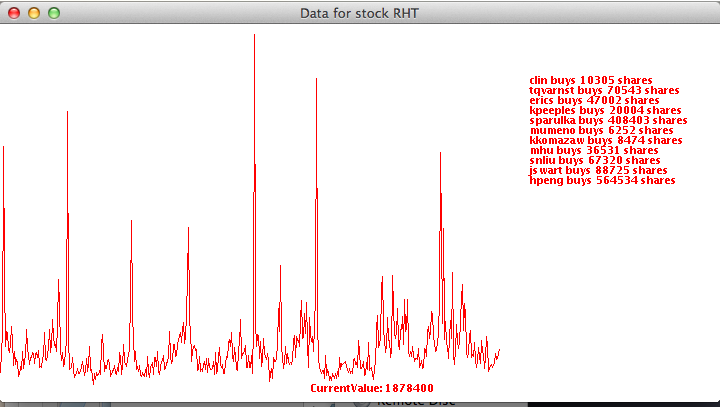
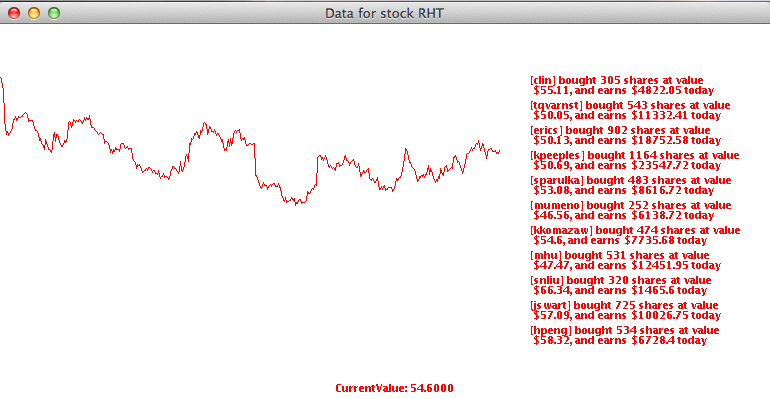
Add calculation of historical and today's share value

diff --git a/projects/stock-ticker/stock-ticker-ploter/src/main/java/demo/StockPloter.java b/projects/stock-ticker/stock-ticker-ploter/src/main/java/demo/StockPloter.java
@@ -5,6 +5,7 @@ import java.awt.Font;
 import java.awt.Graphics;
 import java.awt.Graphics2D;
 import java.io.IOException;
+import java.text.DecimalFormat;
 import java.util.ArrayDeque;
 import java.util.ArrayList;
 import java.util.List;
@@ -27,9 +28,9 @@ public class StockPloter extends JPanel {
 	public static final int WIDTH = 520;
 	public static final int HEIGHT = 400;
 	private static final int NUM_ELEMENTS = 500;
-	public static final int EXTRA_WIDTH_FOR_ORDERS = 200;
+	public static final int EXTRA_WIDTH_FOR_ORDERS = 250;
 	
-	private int maxStockValue = 500;
+	private double maxStockValue = 70;
 	public  int pixelsPerPoint = Math.round(WIDTH-20/NUM_ELEMENTS);
 	private String orderlist = "";
 
@@ -73,12 +74,12 @@ public class StockPloter extends JPanel {
 		} ); **/
 		
 		for(StockHistoryQuote quote : (list.size()<NUM_ELEMENTS) ? list : (list.subList(list.size()-NUM_ELEMENTS, list.size()))) {
-			if(quote.getVolume()>maxStockValue)
-				maxStockValue=quote.getVolume();
+			if(quote.getAdjClose()>maxStockValue)
+				maxStockValue=quote.getAdjClose();
 			this.stockHistoryData.add(quote);
 		}
 		
-		for(StockQuote orderQuote : (list.size()<NUM_ELEMENTS) ? orderlist : (orderlist.subList(orderlist.size()-NUM_ELEMENTS, orderlist.size()))) {
+		for(StockQuote orderQuote : (orderlist.size()<NUM_ELEMENTS) ? orderlist : (orderlist.subList(orderlist.size()-NUM_ELEMENTS, orderlist.size()))) {
 			this.stockOrderData.add(orderQuote);
 		}
 		this.repaint();
@@ -93,40 +94,42 @@ public class StockPloter extends JPanel {
 		
 		pixelsPerPoint = getWidth()/NUM_ELEMENTS;
 		
-		int oldValue=-1;
+		double oldValue=-1.0;
 		
 		if (stockHistoryData!=null && stockHistoryData.size()>0) {
 			int x=0;
 			for (StockHistoryQuote quote : stockHistoryData) {
 				if (oldValue > 0) {
-					int newValue = quote.getVolume();
+					double newValue = quote.getAdjClose();
 					g2.drawLine(x, scaleAndPositionValue(oldValue), x+=pixelsPerPoint, scaleAndPositionValue(newValue));
 				}
-				oldValue = quote.getVolume();
+				oldValue = quote.getAdjClose();
 			}
 			 
-			int currentValue = stockHistoryData.getLast().getVolume();
-			String currentValueStr = String.format("CurrentValue: %d \n", currentValue);
-			
-			
+			double currentValue = stockHistoryData.getLast().getAdjClose();
+			String currentValueStr = String.format("CurrentValue: %g \n", currentValue);	
+			g.drawChars(currentValueStr.toCharArray(), 0, currentValueStr.length(), getWidth()/2-50, getHeight()-10);
+		}
+		if (stockOrderData!=null && stockOrderData.size()>0) {
 			//Print out ordered shares, if any
 			int orderheight = 10;
+			double earnvalue = 0.0;
 			for (StockQuote order : stockOrderData) {
-				orderlist = String.format("%s buys %d shares \n", order.getCustId() ,order.getVolume() );
+				earnvalue =(order.getVolume() * stockHistoryData.getFirst().getAdjClose()) - (order.getVolume()* order.getCloseValue());
+				orderlist = String.format("[%s] bought %d shares at value", order.getCustId() ,order.getVolume());
+				String earnlist = String.format(" $%s, and earns $%s today ", roundDouble(order.getCloseValue()), roundDouble(earnvalue));
 				if(orderlist != null && !"".equals(orderlist.trim())){
 					g.drawChars(orderlist.toCharArray(), 0, orderlist.length(), getWidth()-EXTRA_WIDTH_FOR_ORDERS + 10, 50+orderheight);
 					orderheight += 10;
+					g.drawChars(earnlist.toCharArray(), 0, earnlist.length(), getWidth()-EXTRA_WIDTH_FOR_ORDERS + 10, 50+orderheight);
+					orderheight += 15;
 				}
 			}
-			
-			
-			
-			g.drawChars(currentValueStr.toCharArray(), 0, currentValueStr.length(), getWidth()/2-50, getHeight()-10);
 		}
 	}
 	
 	
-	private int scaleAndPositionValue(int value) {
+	private int scaleAndPositionValue(double value) {
 		double heightInDrawArea = this.getHeight()*RELATIV_SCREEN_AREA;
 		double pixelsPerValuePoint = heightInDrawArea/maxStockValue;
 		int middleOfPanel=(int) Math.round(this.getHeight()/2);
@@ -141,8 +144,8 @@ public class StockPloter extends JPanel {
 		if(stockHistoryData.size()>NUM_ELEMENTS) {
 			stockHistoryData.removeFirst(); //We will only save enough data to print on the screen
 		}
-		if(quote.getVolume()>maxStockValue)
-			maxStockValue=quote.getVolume();
+		if(quote.getAdjClose()>maxStockValue)
+			maxStockValue=quote.getAdjClose();
 		this.repaint();
 	}
 
@@ -153,6 +156,12 @@ public class StockPloter extends JPanel {
 		}
 		
 		this.repaint();
+	}
+	
+	private String roundDouble(double val){
+		DecimalFormat df2 = new DecimalFormat("#########.##");
+		
+        return df2.format(val);
 	}
 	
 	public static void main(String[] args) throws IOException {

diff --git a/projects/stock-ticker/stock-ticker-historicalquote/src/main/java/customer/Customer.java b/projects/stock-ticker/stock-ticker-historicalquote/src/main/java/customer/Customer.java
@@ -4,8 +4,11 @@ package customer;
 import javax.xml.bind.annotation.XmlAccessType;
 import javax.xml.bind.annotation.XmlAccessorType;
 import javax.xml.bind.annotation.XmlAttribute;
+import javax.xml.bind.annotation.XmlElement;
 import javax.xml.bind.annotation.XmlRootElement;
+import javax.xml.bind.annotation.XmlSchemaType;
 import javax.xml.bind.annotation.XmlType;
+import javax.xml.datatype.XMLGregorianCalendar;
 
 
 /**
@@ -18,7 +21,8 @@ import javax.xml.bind.annotation.XmlType;
  *   &lt;complexContent>
  *     &lt;restriction base="{http://www.w3.org/2001/XMLSchema}anyType">
  *       &lt;sequence>
- *         &lt;element name="shares" type="{http://www.w3.org/2001/XMLSchema}int"/>
+ *         &lt;element name="buydate" type="{http://www.w3.org/2001/XMLSchema}date"/>
+ *         &lt;element name="shares" type="{http://www.w3.org/2001/XMLSchema}short"/>
  *       &lt;/sequence>
  *       &lt;attribute name="custId" type="{http://www.w3.org/2001/XMLSchema}string" />
  *     &lt;/restriction>
@@ -30,20 +34,48 @@ import javax.xml.bind.annotation.XmlType;
  */
 @XmlAccessorType(XmlAccessType.FIELD)
 @XmlType(name = "", propOrder = {
+    "buydate",
     "shares"
 })
 @XmlRootElement(name = "customer")
 public class Customer {
 
-    protected int shares;
+    @XmlElement(required = true)
+    @XmlSchemaType(name = "date")
+    protected XMLGregorianCalendar buydate;
+    protected short shares;
     @XmlAttribute(name = "custId")
     protected String custId;
+
+    /**
+     * Gets the value of the buydate property.
+     * 
+     * @return
+     *     possible object is
+     *     {@link XMLGregorianCalendar }
+     *     
+     */
+    public XMLGregorianCalendar getBuydate() {
+        return buydate;
+    }
+
+    /**
+     * Sets the value of the buydate property.
+     * 
+     * @param value
+     *     allowed object is
+     *     {@link XMLGregorianCalendar }
+     *     
+     */
+    public void setBuydate(XMLGregorianCalendar value) {
+        this.buydate = value;
+    }
 
     /**
      * Gets the value of the shares property.
      * 
      */
-    public int getShares() {
+    public short getShares() {
         return shares;
     }
 
@@ -51,7 +83,7 @@ public class Customer {
      * Sets the value of the shares property.
      * 
      */
-    public void setShares(int value) {
+    public void setShares(short value) {
         this.shares = value;
     }
 

diff --git a/projects/stock-ticker/stock-ticker-model/src/main/java/org/jboss/demo/jdg/model/StockQuote.java b/projects/stock-ticker/stock-ticker-model/src/main/java/org/jboss/demo/jdg/model/StockQuote.java
@@ -1,12 +1,15 @@
 package org.jboss.demo.jdg.model;
 
 import java.io.Serializable;
+import java.util.Date;
 
 public class StockQuote implements Serializable{
 	private static final long serialVersionUID = 8651457763762868219L;
 	
 	private String custId;
 	private int volume;
+	private Date buydate;
+	private double closeValue;
 	
 	public String getCustId() {
 		return custId;
@@ -21,6 +24,26 @@ public class StockQuote implements Serializable{
 	public void setVolume(int volume) {
 		this.volume = volume;
 	}
+	
+	public Date getBuydate() {
+		return buydate;
+	}
+	
+	public void setBuydate(Date buydate) {
+		this.buydate = buydate;
+	}
+	
+	
+	public double getCloseValue() {
+		return closeValue;
+	}
+	public void setCloseValue(double closeValue) {
+		this.closeValue = closeValue;
+	}
+	public long getTimeStampinLong(){
+		return this.buydate.getTime();
+	}
+	
 	public static long getSerialversionuid() {
 		return serialVersionUID;
 	}

diff --git a/README.md b/README.md
@@ -16,7 +16,7 @@ After that run the `init.sh` script
 
 Demo storty
 -----------
-A stock market broker needs to provide it's brokers with historical data of past stock volume (amount of shares that trade hands from sellers to buyers). And also needs to list all today's buyer's shares in the console after displaying the past volume. The broker decides to send order information to trigger stock tick event, the information are send to JBoss Fuse. It implements a integration flow to request for historical data from external SAAS, then pass the data to stock ticker console, and then process the order by parsing the XML to Java POJO for display and further process. 
+A stock market broker needs to provide it's brokers with historical data of past stock close value (amount of shares that trade hands from sellers to buyers). And also needs to list all today's buyer's shares and how much they will earn if they sell their shares today after showing the past value graph. The broker decides to send order information to trigger stock tick event, the information are send to JBoss Fuse. It implements a integration flow to request for historical data from external SAAS, then pass the data to stock ticker console, and then process the order by parsing the XML to Java POJO for display and further process. 
 
 The problem
 -----------
